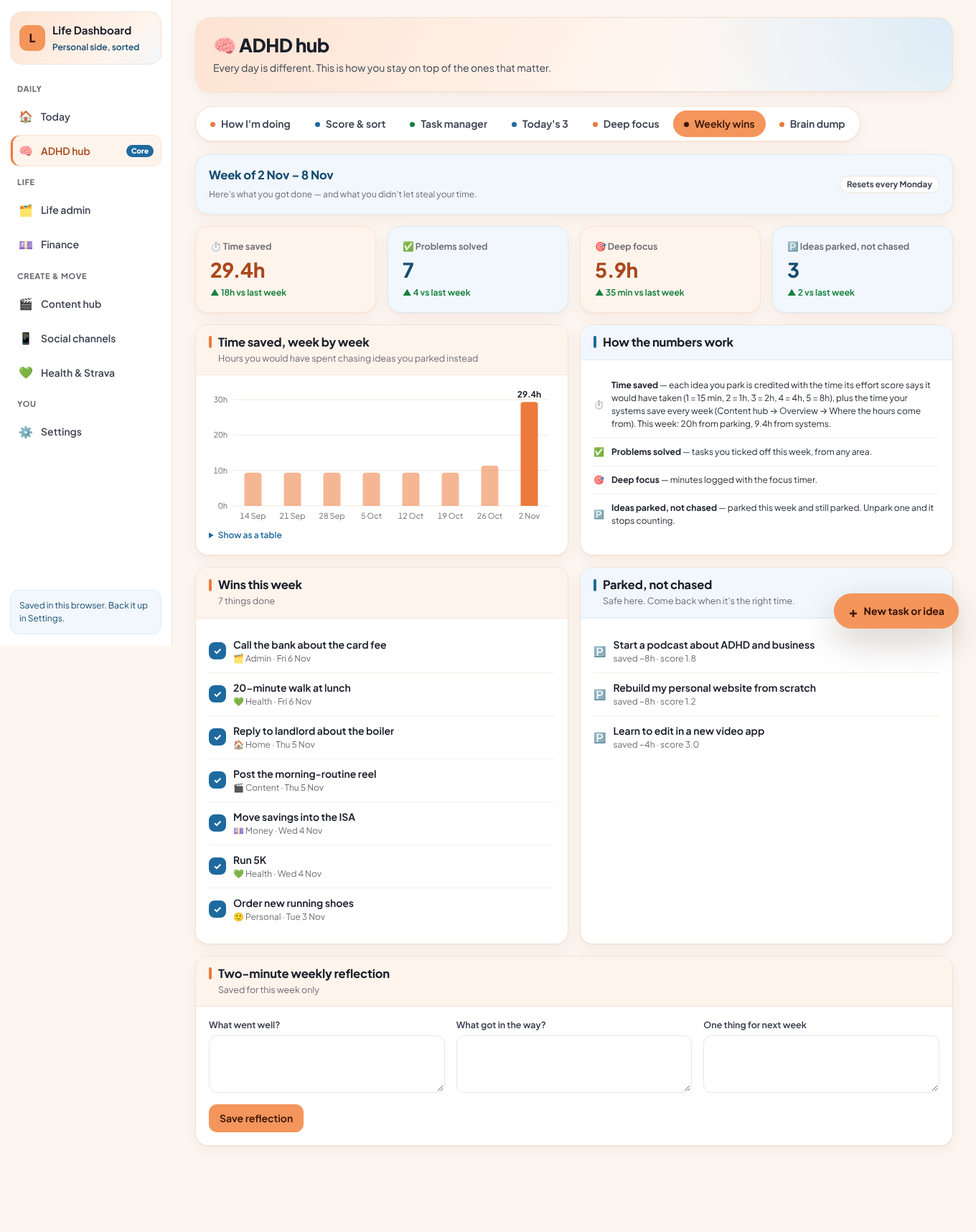
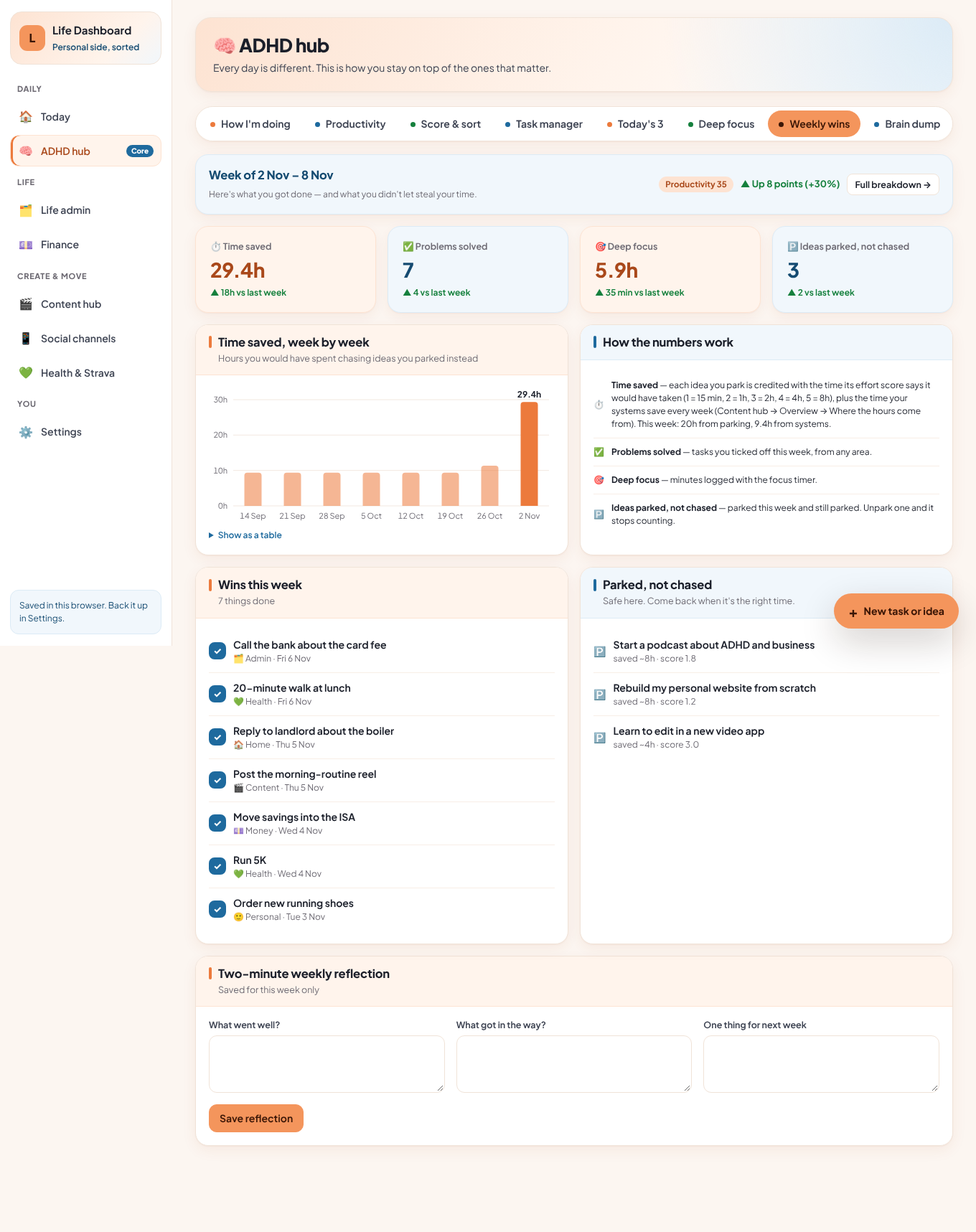
Add productivity and time saved tracking with tips to boost both
ADHD hub → Productivity (new tab), with a short version on the Today
page:
- A daily productivity score out of 100, made of Today's 3 (35), deep
  focus against a daily target (25), other tasks ticked off (20),
  daily basics (15) and checking in (5), with a breakdown so you can
  see why it moved
- Up or down: today against your usual (the last 7 days), this week
  against last week in points and %, and a week-by-week table
- Time saved per day (ideas parked that day plus a daily share of
  what your systems save) and per week, with a 14-day chart
- Boost today: tips from what's left today (overdue tasks, Today's 3,
  focus minutes, check-in, daily basics, brain dump, an overloaded
  Do it now), each with the points it's worth and a button to act
- Boost this week: tips from your trend, your weakest score part,
  your strongest and weakest weekdays, your slowest content job,
  ideas parked, and the check-in tag that lifts your mood most

Weekly wins shows this week's productivity and the change, and
Settings has a daily deep-focus target. Docs and screenshots are
updated.

Claude-Session: https://claude.ai/code/session_01Tm1LPD3ML44pVgCCgpXwdc

diff --git a/public/life/index.html b/public/life/index.html
@@ -449,6 +449,22 @@ input[type=range].prio:focus-visible { outline: 2px solid var(--sky); outline-of
 .prio-scale { display: flex; justify-content: space-between; font-size: 11px; color: var(--muted); font-weight: 600; }
 .tcard .prio-box { display: flex; align-items: center; gap: 8px; margin-top: 6px; }
 
+/* ---------- productivity ---------- */
+.parts .part { display: grid; grid-template-columns: minmax(120px, 1fr) minmax(0, 2fr) 64px; gap: 12px; align-items: center; padding: 9px 0; border-top: 1px solid var(--line-soft); }
+.parts .part:first-child { border-top: 0; }
+.parts .part b { font-size: 13px; display: block; }
+.parts .part span.small { display: block; }
+.parts .pts { text-align: right; font-weight: 750; font-variant-numeric: tabular-nums; }
+.tip { display: flex; gap: 12px; align-items: flex-start; padding: 12px; border: 1px solid var(--line); border-radius: 14px; margin-top: 10px; background: var(--surface); }
+.tip:first-of-type { margin-top: 0; }
+.tip .ico { width: 34px; height: 34px; border-radius: 10px; display: grid; place-items: center; background: var(--accent-soft); flex: 0 0 auto; font-size: 17px; }
+.calm .tip .ico { background: var(--sky-soft); }
+.tip .grow b { display: block; }
+.tip .gain { flex: 0 0 auto; }
+.tip-side { display: flex; flex-direction: column; gap: 6px; align-items: flex-end; flex: 0 0 auto; }
+.big-delta { font-size: 13px; font-weight: 700; }
+.big-delta.up { color: var(--good); } .big-delta.down { color: var(--bad); } .big-delta.flat { color: var(--muted); }
+
 /* ---------- content strategy ---------- */
 .strat-grid { display: grid; gap: 12px; grid-template-columns: repeat(2, minmax(0, 1fr)); }
 .pillar-row { display: grid; grid-template-columns: minmax(0, 1.2fr) 90px minmax(0, 2fr) auto; gap: 8px; align-items: center; margin-top: 8px; }
@@ -484,6 +500,10 @@ input[type=range].prio:focus-visible { outline: 2px solid var(--sky); outline-of
   .fab { right: 16px; bottom: 16px; }
   .tm-add, .tm-add.no-area { grid-template-columns: 1fr; }
   .tm-row { flex-wrap: wrap; }
+  .tip { flex-wrap: wrap; }
+  .tip-side { flex-direction: row; width: 100%; padding-left: 46px; align-items: center; justify-content: space-between; }
+  .parts .part { grid-template-columns: minmax(0, 1fr) 64px; }
+  .parts .part .progress { grid-column: 1 / -1; grid-row: 2; }
   .sl-row { grid-template-columns: 110px minmax(0, 1fr) 24px; gap: 10px; }
   .sys-wrap { overflow-x: auto; }
   table.sys { min-width: 560px; }
@@ -568,7 +588,7 @@ var PLATFORMS = ['TikTok', 'Instagram', 'YouTube', 'Facebook', 'X', 'LinkedIn', 
 function blank() {
   return {
     v: 1, started: false,
-    settings: { name: '', theme: 'system', formula: 'multiply', mult: { now: 15, schedule: 6 }, weights: { impact: 40, urgency: 30, energy: 20, ease: 10 }, nowAt: 70, scheduleAt: 45, habits: DEFAULT_HABITS.slice(), postGoal: 5, distanceGoal: 20 },
+    settings: { name: '', theme: 'system', formula: 'multiply', mult: { now: 15, schedule: 6 }, weights: { impact: 40, urgency: 30, energy: 20, ease: 10 }, nowAt: 70, scheduleAt: 45, habits: DEFAULT_HABITS.slice(), postGoal: 5, distanceGoal: 20, focusTarget: 90 },
     checkins: {}, tasks: [], inbox: [], focus: [], activeFocus: null, today: {}, reviews: {},
     finance: { tx: [], budgets: BUDGET_CATS.map(function (c) { return { cat: c, limit: 0 }; }), goals: [], bills: [] },
     content: { pillars: DEFAULT_PILLARS.slice(), ideas: [], views: {}, systems: [], strategy: { who: '', audience: '', offer: '', voice: '', goal: '', rules: '', platforms: { TikTok: 5, Instagram: 3 }, rhythm: ['', '', '', '', '', '', ''], mix: {}, about: {} } },
@@ -745,6 +765,112 @@ function ensureToday(force) {
 function systemsMinutes(before) {
   return sum((S.content.systems || []).filter(function (x) { return !before || !x.created || toDate(x.created) < before; }), function (x) { return Math.max(0, (+x.before || 0) - (+x.after || 0)) * (+x.times || 0); });
 }
+/* ---------- Productivity: a 0–100 score for each day ----------
+   Today's 3 done  35 · deep focus vs target 25 · other tasks ticked off 20
+   daily basics 15 · checked in 5.  Time saved per day = ideas parked that
+   day + a daily share (÷7) of what your systems save each week. */
+var PARTS = [
+  { k: 'top3', name: 'Today\'s 3', max: 35 },
+  { k: 'focus', name: 'Deep focus', max: 25 },
+  { k: 'tasks', name: 'Tasks ticked off', max: 20 },
+  { k: 'habits', name: 'Daily basics', max: 15 },
+  { k: 'checkin', name: 'Checked in', max: 5 }
+];
+function dayStats(d) {
+  var from = startOfDay(d), to = addDays(from, 1), k = dkey(from);
+  var done = S.tasks.filter(function (t) { return t.done && inRange(t.doneAt, from, to); });
+  var picks = (S.today[k] || []).map(taskById).filter(Boolean);
+  var top3Done = picks.length ? picks.filter(function (t) { return t.done && inRange(t.doneAt, from, to); }).length : Math.min(done.length, 3);
+  var focusMin = sum(S.focus.filter(function (f) { return inRange(f.start, from, to); }), function (f) { return f.minutes; });
+  var hl = S.settings.habits, habitsDone = (S.health.habits[k] || []).filter(function (h) { return hl.indexOf(h) >= 0; }).length;
+  var checked = !!S.checkins[k];
+  var target = +S.settings.focusTarget || 90;
+  var parts = {
+    top3: top3Done / 3 * 35,
+    focus: Math.min(focusMin / target, 1) * 25,
+    tasks: Math.min(Math.max(done.length - top3Done, 0) / 3, 1) * 20,
+    habits: hl.length ? habitsDone / hl.length * 15 : 0,
+    checkin: checked ? 5 : 0
+  };
+  var parkedH = sum(S.tasks.filter(function (t) { return !t.done && t.bucket === 'park' && inRange(t.parkedAt, from, to); }), function (t) { return EFFORT_HOURS[t.effort] || 0; });
+  var sysH = systemsMinutes(to) / 7 / 60;
+  return { k: k, date: from, score: Math.round(sum(PARTS, function (p) { return parts[p.k]; })), parts: parts, done: done.length, top3Done: top3Done, hasPicks: picks.length > 0,
+    focusMin: focusMin, habitsDone: habitsDone, habitsTotal: hl.length, checked: checked, parkedH: parkedH, sysH: sysH, savedH: parkedH + sysH };
+}
+function weekProd(ws) {
+  var today = startOfDay(new Date()), days = range(0, 6).map(function (i) { return addDays(ws, i); }).filter(function (d) { return d <= today; });
+  var list = days.map(dayStats);
+  return { days: list, avg: list.length ? avg(list.map(function (x) { return x.score; })) : null, saved: sum(list, function (x) { return x.savedH; }) };
+}
+function usualScore() { // average of the 7 days before today
+  return avg(range(1, 7).map(function (i) { return dayStats(addDays(new Date(), -i)).score; }));
+}
+function dayTrendText(score, usual) {
+  if (usual == null) return { txt: 'No comparison yet', cls: 'flat' };
+  var d = score - usual;
+  if (Math.abs(d) < 0.5) return { txt: '● Level with your usual (' + Math.round(usual) + ')', cls: 'flat' };
+  return { txt: (d > 0 ? '▲ ' : '▼ ') + Math.round(Math.abs(d)) + (d > 0 ? ' above' : ' below') + ' your usual (' + Math.round(usual) + ') so far today', cls: d > 0 ? 'up' : 'down' };
+}
+function trendBits(cur, prev) {
+  if (cur == null || prev == null) return { txt: 'No comparison yet', cls: 'flat', pct: null };
+  var d = cur - prev, pct = prev ? Math.round(d / prev * 100) : null;
+  if (Math.abs(d) < 0.5) return { txt: '● Level with before', cls: 'flat', pct: 0 };
+  return { txt: (d > 0 ? '▲ Up ' : '▼ Down ') + num(Math.abs(d), 0) + ' points' + (pct != null ? ' (' + (d > 0 ? '+' : '−') + Math.abs(pct) + '%)' : ''), cls: d > 0 ? 'up' : 'down', pct: pct };
+}
+function tipHTML(t) {
+  return '<div class="tip"><div class="ico">' + t.ico + '</div><div class="grow"><b>' + esc(t.title) + '</b><span class="small muted">' + esc(t.text) + '</span></div>' +
+    '<div class="tip-side">' + (t.gain ? '<span class="pill ' + (t.sky ? 'sky' : 'now') + ' gain">' + esc(t.gain) + '</span>' : '') +
+    (t.act ? '<button class="btn sm" data-act="' + t.act + '"' + Object.keys(t.data || {}).map(function (k) { return ' data-' + k + '="' + esc(t.data[k]) + '"'; }).join('') + '>' + esc(t.btn || 'Go') + '</button>' : '') + '</div></div>';
+}
+function dailyTips() {
+  var tips = [], k = dkey(), ds = dayStats(new Date()), target = +S.settings.focusTarget || 90;
+  var overdue = S.tasks.filter(function (t) { return !t.done && t.due && t.due < k; }).sort(function (a, b) { return a.effort - b.effort; });
+  if (overdue.length) tips.push({ ico: '⚠', title: 'Clear an overdue task first', text: overdue.length + ' overdue. The quickest is “' + overdue[0].title + '” — get it off your mind.', gain: '+7 pts', act: 'focus-task', data: { id: overdue[0].id }, btn: '🎯 Focus on it' });
+  var ids = ensureToday(), left = ids.map(taskById).filter(function (t) { return t && !t.done; });
+  if (left.length) tips.push({ ico: '✅', title: 'Finish Today\'s 3 (' + (3 - left.length) + ' of 3 done)', text: 'Next up: “' + left[0].title + '”. Each one is worth about 12 points.', gain: '+' + Math.round(left.length * 35 / 3) + ' pts', act: 'focus-task', data: { id: left[0].id }, btn: '🎯 Start it' });
+  if (ds.focusMin < target) { var need = target - ds.focusMin; tips.push({ ico: '🎯', title: 'Do a ' + (need >= 45 ? 45 : 25) + '-minute deep focus block', text: 'You\'re at ' + ds.focusMin + ' of ' + target + ' focus minutes today. Phone in another room, one tab open.', gain: '+' + Math.round(Math.min(need >= 45 ? 45 : 25, need) / target * 25) + ' pts', act: 'go', data: { page: 'adhd', tab: 'focus' }, btn: 'Open timer' }); }
+  if (!ds.checked) tips.push({ ico: '🙂', title: 'Check in (10 seconds)', text: 'It tunes Today\'s 3 to your energy and keeps your trend honest.', gain: '+5 pts', act: 'go', data: { page: 'adhd', tab: 'checkin' }, btn: 'Check in' });
+  if (ds.habitsTotal && ds.habitsDone < ds.habitsTotal) tips.push({ ico: '💚', title: 'Tick off your daily basics', text: (ds.habitsTotal - ds.habitsDone) + ' left today. Start with a 20-minute walk — it lifts focus for the afternoon.', gain: '+' + Math.round((ds.habitsTotal - ds.habitsDone) / ds.habitsTotal * 15) + ' pts', act: 'go', data: { page: 'health' }, btn: 'Open basics' });
+  if (S.inbox.length) tips.push({ ico: '💭', title: 'Empty the brain dump', text: S.inbox.length + ' thought' + (S.inbox.length === 1 ? '' : 's') + ' waiting. Score them or park them — every idea parked saves you chasing it.', gain: 'saves time', sky: true, act: 'go', data: { page: 'adhd', tab: 'dump' }, btn: 'Sort them' });
+  var nowCount = S.tasks.filter(function (t) { return !t.done && t.bucket === 'now'; }).length;
+  if (nowCount > 7) tips.push({ ico: '🅿', title: 'Lighten “Do it now”', text: nowCount + ' tasks are in Do it now. Move 3 to Schedule or Park so today feels doable.', gain: 'less overwhelm', sky: true, act: 'go', data: { page: 'adhd', tab: 'score' }, btn: 'Sort tasks' });
+  var e = todayEnergy();
+  if (e != null && e <= 2) tips.unshift({ ico: '🔋', title: 'Low-energy day — shrink the target', text: 'Do one quick win and one 15-minute focus block. That still counts as a good day.', gain: 'protects tomorrow', sky: true });
+  if (!tips.length) tips.push({ ico: '🏆', title: 'You\'ve hit everything today', text: 'Rest is productive too. Anything else is a bonus — or plan tomorrow\'s first task now.', gain: '100% day', sky: true });
+  return tips.slice(0, 5);
+}
+function weeklyTips() {
+  var tips = [], ws = weekStart(), cur = weekProd(ws), last = weekProd(addDays(ws, -7)), tr = trendBits(cur.avg, last.avg);
+  if (tr.cls === 'down') tips.push({ ico: '📉', title: 'Productivity is ' + tr.txt.replace('▼ ', '').toLowerCase() + ' on last week', text: 'Make this week lighter: just Today\'s 3 each day, and park any new idea that scores under ' + num(thresholds().schedule) + '.', gain: 'reset', act: 'go', data: { page: 'adhd', tab: 'score' }, btn: 'Review tasks' });
+  else if (tr.cls === 'up') tips.push({ ico: '📈', title: 'Productivity is ' + tr.txt.replace('▲ ', '').toLowerCase() + ' — keep it going', text: 'Whatever you changed is working. Repeat the same morning routine and protect your focus blocks.', gain: 'keep it up', sky: true });
+  // weakest part this week
+  if (cur.days.length) {
+    var ratios = PARTS.map(function (p) { return { p: p, r: avg(cur.days.map(function (x) { return x.parts[p.k] / p.max; })) }; }).sort(function (a, b) { return a.r - b.r; });
+    var w = ratios[0], pct = Math.round(w.r * 100), lost = Math.round((1 - w.r) * w.p.max);
+    var map = {
+      top3: ['Finish Today\'s 3 before anything else', 'Today\'s 3 is at ' + pct + '% this week. Do #1 before opening email or socials.', 'adhd', 'today', 'Open Today\'s 3'],
+      focus: ['Book three focus blocks this week', 'Deep focus is at ' + pct + '% of your ' + S.settings.focusTarget + '-minute daily target. Put 45 minutes in the diary on 3 mornings.', 'adhd', 'focus', 'Open timer'],
+      tasks: ['Clear two quick wins a day', 'Other tasks are at ' + pct + '%. Pick tasks with effort 1 — they take 15 minutes and add up fast.', 'adhd', 'tasks', 'Open task manager'],
+      habits: ['Stack your daily basics', 'Basics are at ' + pct + '%. Tie them to something you already do: water and meds with breakfast, walk after lunch.', 'health', '', 'Open basics'],
+      checkin: ['Check in every morning', 'You\'ve checked in on ' + cur.days.filter(function (x) { return x.checked; }).length + ' of ' + cur.days.length + ' days. It takes 10 seconds and sharpens Today\'s 3.', 'adhd', 'checkin', 'Check in']
+    }[w.p.k];
+    tips.push({ ico: '🧩', title: map[0], text: map[1], gain: '+' + lost + ' pts a day', act: 'go', data: { page: map[2], tab: map[3] }, btn: map[4] });
+  }
+  // best weekday from the last 4 weeks
+  var byDow = range(0, 6).map(function (i) { return { d: i, s: avg(range(0, 3).map(function (wk) { var day = addDays(ws, i - 7 * (wk + 1)); return dayStats(day).score; })) }; }).sort(function (a, b) { return b.s - a.s; });
+  if (byDow[0].s > 0) tips.push({ ico: '🗓', title: 'Use your strongest day: ' + WEEKDAYS[byDow[0].d], text: 'Over the last 4 weeks ' + WEEKDAYS[byDow[0].d] + ' averages ' + Math.round(byDow[0].s) + ' and ' + WEEKDAYS[byDow[6].d] + ' ' + Math.round(byDow[6].s) + '. Put your biggest task on ' + WEEKDAYS[byDow[0].d] + ' and keep ' + WEEKDAYS[byDow[6].d] + ' light.', gain: 'work with your rhythm', sky: true });
+  // biggest time-saving opportunity
+  var sys = (S.content.systems || []).slice().sort(function (a, b) { return b.after * b.times - a.after * a.times; });
+  if (sys.length && sys[0].after * sys[0].times >= 30) tips.push({ ico: '⏱', title: '“' + sys[0].name + '” still takes ' + hrs(sys[0].after * sys[0].times / 60) + ' a week', text: 'Template it, batch it or automate one more step. Halving it wins back about ' + hrs(sys[0].after * sys[0].times / 2 / 60) + ' every week.', gain: '+' + hrs(sys[0].after * sys[0].times / 2 / 60) + '/week', sky: true, act: 'go', data: { page: 'content', tab: 'overview' }, btn: 'Open systems' });
+  else if (!sys.length) tips.push({ ico: '⏱', title: 'Start counting the time your systems save', text: 'List the jobs you repeat every week (captions, clipping, replies) with before and after minutes.', gain: 'track time saved', sky: true, act: 'go', data: { page: 'content', tab: 'overview' }, btn: 'Add systems' });
+  var st = weekStats(ws);
+  if (st.parked < 2) tips.push({ ico: '🅿', title: 'Score new ideas before you chase them', text: 'You\'ve parked ' + st.parked + ' idea' + (st.parked === 1 ? '' : 's') + ' this week. Each one parked saves 15 minutes to 8 hours you\'d have spent chasing it.', gain: 'up to 8h each', sky: true, act: 'go', data: { page: 'adhd', tab: 'dump' }, btn: 'Brain dump' });
+  // best check-in tag
+  var entries = Object.keys(S.checkins).map(function (k) { return S.checkins[k]; }).filter(function (x) { return x.score; }), overall = avg(entries.map(function (x) { return x.score; }));
+  var best = TAGS.map(function (t) { var wt = entries.filter(function (x) { return (x.tags || []).indexOf(t) >= 0; }); return { t: t, n: wt.length, d: wt.length >= 3 ? avg(wt.map(function (x) { return x.score; })) - overall : -9 }; }).sort(function (a, b) { return b.d - a.d; })[0];
+  if (best && best.d >= 0.5) tips.push({ ico: '✨', title: 'Do more of what lifts you: “' + best.t + '”', text: 'Days tagged “' + best.t + '” score ' + num(best.d, 1) + ' higher on your check-in. Plan for it on 3 days this week.', gain: '+' + num(best.d, 1) + ' mood', sky: true });
+  return tips.slice(0, 5);
+}
 function weekStats(ws) {
   var we = addDays(ws, 7);
   var solved = S.tasks.filter(function (t) { return t.done && inRange(t.doneAt, ws, we); });
@@ -920,6 +1046,7 @@ var NAV = [
 ];
 var ADHD_TABS = [
   { id: 'checkin', name: 'How I\'m doing' },
+  { id: 'progress', name: 'Productivity' },
   { id: 'score', name: 'Score & sort' },
   { id: 'tasks', name: 'Task manager' },
   { id: 'today', name: 'Today\'s 3' },
@@ -1017,6 +1144,7 @@ function viewHome() {
            : '<div class="scale compact">' + range(1, 10).map(function (n) { return '<button data-act="quick-score" data-v="' + n + '">' + n + '</button>'; }).join('') + '</div><p class="small muted mt">Today\'s 3 re-picks itself to match. Add energy, sleep and notes in the <a href="#/adhd/checkin">full check-in</a>.</p>') +
       '</div>' +
     '</div>' +
+    homeProductivity() +
     '<div class="section-label"><span>🎯</span>Top priorities</div>' + taskManager('home', { areas: null, def: 'personal', title: '🎯 Top priorities', blurb: 'Your most important open tasks, from every area.', limit: 6 }) +
     '<div class="section-label"><span>📊</span>This week so far</div>' + weekTiles(ws) +
     '<div class="grid g3 mt">' +
@@ -1031,6 +1159,14 @@ function viewHome() {
         '<div class="mt-s"><div class="progress"><span style="width:' + clamp(sum(acts, function (a) { return a.distance; }) / (S.settings.distanceGoal || 1) * 100, 0, 100) + '%"></span></div><div class="small muted mt-s">' + acts.length + ' activities · goal ' + S.settings.distanceGoal + ' km</div></div></div>' +
     '</div>' +
     (idea ? '<div class="card mt tint"><div class="row between"><div><span class="pill plain">💡 Content idea waiting · ' + esc(idea.platform) + '</span><h3 class="mt-s">' + esc(idea.title) + '</h3><p class="small muted">' + esc(idea.hook || '') + '</p></div><button class="btn sm" data-act="go" data-page="content">Open content ideas →</button></div></div>' : '');
+}
+function homeProductivity() {
+  var t = dayStats(new Date()), tr = dayTrendText(t.score, usualScore()), tips = dailyTips().slice(0, 2);
+  var ws = weekStart(), c = weekProd(ws), l = weekProd(addDays(ws, -7)), tw = trendBits(c.avg, l.avg);
+  return '<div class="section-label"><span>📈</span>Productivity & time saved</div>' +
+    '<div class="grid g3"><div class="stack"><div class="card stat t-peach"><span class="label">Productivity today</span><span class="value">' + t.score + '<span class="small muted"> / 100</span></span><span class="big-delta ' + tr.cls + '">' + tr.txt + '</span><span class="sub">This week ' + (c.avg == null ? '–' : Math.round(c.avg)) + ' · ' + tw.txt.replace('▲ ', '').replace('▼ ', '') + ' vs last week</span></div>' +
+    '<div class="card stat t-sky"><span class="label">Time saved</span><span class="value">' + hrs(t.savedH) + '<span class="small muted"> today</span></span><span class="sub">' + hrs(c.saved) + ' this week so far</span></div></div>' +
+    '<div class="card span2"><div class="card-head"><div><h2>🚀 Boost today</h2><p>The quickest ways to lift today\'s score</p></div><button class="btn sm ghost" data-act="go" data-page="adhd" data-tab="progress">All tips →</button></div>' + tips.map(tipHTML).join('') + '</div></div>';
 }
 function todayLine() {
   var e = todayEnergy();
@@ -1068,7 +1204,7 @@ function viewADHD() {
   var tab = ADHD_TABS.some(function (t) { return t.id === route.tab; }) ? route.tab : 'checkin';
   return '<div class="page-head"><div><h1>🧠 ADHD hub</h1><p>Every day is different. This is how you stay on top of the ones that matter.</p></div></div>' +
     tabsBar('adhd', ADHD_TABS, tab) +
-    ({ checkin: tabCheckin, score: tabScore, tasks: tabTasks, today: tabToday, focus: tabFocus, week: tabWeek, dump: tabDump })[tab]();
+    ({ checkin: tabCheckin, progress: tabProgress, score: tabScore, tasks: tabTasks, today: tabToday, focus: tabFocus, week: tabWeek, dump: tabDump })[tab]();
 }
 
 var draftCheckin = null;
@@ -1317,12 +1453,53 @@ setInterval(function () {
   document.title = S.activeFocus ? clockText(a) + ' · Focus' : 'Life Dashboard';
 }, 1000);
 
+/* ---------- Productivity & time saved ---------- */
+function tabProgress() {
+  var today = dayStats(new Date()), usual = usualScore(), trDay = dayTrendText(today.score, usual);
+  var ws = weekStart(), cur = weekProd(ws), last = weekProd(addDays(ws, -7)), trWeek = trendBits(cur.avg, last.avg);
+  var savedTr = deltaText(cur.saved, last.saved, '', hrs);
+  var days = range(0, 13).map(function (i) { return dayStats(addDays(new Date(), i - 13)); });
+  lineChart('ch-prod', days.map(function (x) { return { label: DOW[x.date.getDay()].slice(0, 2) + ' ' + x.date.getDate(), value: x.score, tip: fmtDay(x.date) + ' · ' + x.done + ' done · ' + x.focusMin + ' min focus' }; }), { min: 0, max: 100, ticks: [0, 50, 100], label: 'Productivity per day' });
+  columnChart('ch-saved-day', days.map(function (x) { return { label: DOW[x.date.getDay()].slice(0, 2) + ' ' + x.date.getDate(), value: +x.savedH.toFixed(2), tip: fmtDay(x.date) + ' · ' + hrs(x.parkedH) + ' parked + ' + hrs(x.sysH) + ' systems' }; }), { fmt: hrs, label: 'Time saved per day', base: css('--bar-mute'), cur: css('--accent') });
+  var weeks = range(0, 7).map(function (i) { var w = addDays(ws, (i - 7) * 7); return { ws: w, p: weekProd(w), st: weekStats(w) }; });
+  return '<div class="grid g4">' +
+      '<div class="card stat t-peach"><span class="label">Productivity today</span><span class="value">' + today.score + '<span class="small muted"> / 100</span></span><span class="big-delta ' + trDay.cls + '">' + trDay.txt + '</span></div>' +
+      '<div class="card stat t-sky"><span class="label">Time saved today</span><span class="value">' + hrs(today.savedH) + '</span><span class="sub">' + hrs(today.parkedH) + ' from parking · ' + hrs(today.sysH) + ' from systems</span></div>' +
+      '<div class="card stat t-peach"><span class="label">Productivity this week</span><span class="value">' + (cur.avg == null ? '–' : Math.round(cur.avg)) + '<span class="small muted"> avg</span></span><span class="big-delta ' + trWeek.cls + '">' + trWeek.txt + ' vs last week</span></div>' +
+      '<div class="card stat t-sky"><span class="label">Time saved this week</span><span class="value">' + hrs(cur.saved) + '</span><span class="delta ' + savedTr[1] + '">' + (savedTr[0] || 'so far') + '</span></div>' +
+    '</div>' +
+    '<div class="grid g2 mt">' +
+      '<div class="card"><div class="card-head"><div><h2>🚀 Boost today</h2><p>Personal to what you\'ve done so far today</p></div></div>' + dailyTips().map(tipHTML).join('') + '</div>' +
+      '<div class="card calm"><div class="card-head"><div><h2>📅 Boost this week</h2><p>From your trends, patterns and time-saving systems</p></div></div>' + weeklyTips().map(tipHTML).join('') + '</div>' +
+    '</div>' +
+    '<div class="grid g2 mt">' +
+      '<div class="card"><div class="card-head"><div><h2>How today\'s score is made</h2><p>Five parts that add up to 100 — so you always know why it moved</p></div><span class="pill now">' + today.score + ' / 100</span></div><div class="parts">' +
+        PARTS.map(function (pt) {
+          var v = today.parts[pt.k], detail = { top3: today.top3Done + ' of 3 done' + (today.hasPicks ? '' : ' (any 3 tasks)'), focus: today.focusMin + ' of ' + S.settings.focusTarget + ' min', tasks: Math.max(today.done - today.top3Done, 0) + ' extra done (3 = full marks)', habits: today.habitsDone + ' of ' + today.habitsTotal + ' ticked', checkin: today.checked ? 'Done' : 'Not yet' }[pt.k];
+          return '<div class="part"><div><b>' + pt.name + '</b><span class="small muted">' + detail + '</span></div><div class="progress' + (pt.k === 'top3' || pt.k === 'tasks' ? ' warm' : '') + '"><span style="width:' + (v / pt.max * 100) + '%"></span></div><span class="pts">' + Math.round(v) + ' / ' + pt.max + '</span></div>';
+        }).join('') + '</div></div>' +
+      '<div class="card calm"><div class="card-head"><div><h2>Productivity per day</h2><p>Last 14 days, out of 100</p></div></div>' + chartSlot('ch-prod', 200) +
+        tableView(['Day', 'Score', 'Done', 'Focus'], days.map(function (x) { return [fmtDay(x.date), x.score, x.done, x.focusMin + ' min']; })) + '</div>' +
+    '</div>' +
+    '<div class="grid g2 mt">' +
+      '<div class="card"><div class="card-head"><div><h2>Time saved per day</h2><p>Last 14 days · ideas parked that day + your systems\' daily share</p></div></div>' + chartSlot('ch-saved-day', 200) +
+        tableView(['Day', 'Saved', 'Parking', 'Systems'], days.map(function (x) { return [fmtDay(x.date), hrs(x.savedH), hrs(x.parkedH), hrs(x.sysH)]; })) + '</div>' +
+      '<div class="card calm"><div class="card-head"><div><h2>Week by week</h2><p>Is it going up or down?</p></div></div>' +
+        '<table class="data"><thead><tr><th>Week of</th><th class="num">Productivity</th><th class="num">Change</th><th class="num">Time saved</th><th class="num">Solved</th></tr></thead><tbody>' +
+        weeks.slice().reverse().map(function (w, i, arr) {
+          var prev = arr[i + 1], t = prev ? trendBits(w.p.avg, prev.p.avg) : { txt: '–', cls: 'flat' };
+          return '<tr><td>' + fmtShort(w.ws) + (i === 0 ? ' (this week)' : '') + '</td><td class="num">' + (w.p.avg == null ? '–' : Math.round(w.p.avg)) + '</td><td class="num"><span class="big-delta ' + t.cls + '">' + (t.pct != null && prev ? (t.cls === 'up' ? '▲ ' : t.cls === 'down' ? '▼ ' : '● ') + Math.abs(t.pct) + '%' : '–') + '</span></td><td class="num">' + hrs(w.st.timeSaved) + '</td><td class="num">' + w.st.solved + '</td></tr>';
+        }).join('') + '</tbody></table>' +
+        '<p class="small muted mt">Productivity is the average daily score for that week (this week counts the days so far).</p></div>' +
+    '</div>';
+}
+
 /* ---------- Weekly wins ---------- */
 function tabWeek() {
   var ws = weekStart(), st = weekStats(ws), wk = dkey(ws), rv = S.reviews[wk] || {};
   var hist = range(0, 7).map(function (i) { var w = addDays(ws, (i - 7) * 7); return { ws: w, st: weekStats(w) }; });
   columnChart('ch-saved', hist.map(function (h) { return { label: fmtShort(h.ws), value: +h.st.timeSaved.toFixed(2), tip: 'Week of ' + fmtShort(h.ws) }; }), { fmt: hrs, label: 'Time saved per week' });
-  return '<div class="card tint"><div class="row between"><div><h2>Week of ' + fmtShort(ws) + ' – ' + fmtShort(addDays(ws, 6)) + '</h2><p class="small muted mt-s">Here\'s what you got done — and what you didn\'t let steal your time.</p></div><span class="pill plain">Resets every Monday</span></div></div>' +
+  return '<div class="card tint"><div class="row between"><div><h2>Week of ' + fmtShort(ws) + ' – ' + fmtShort(addDays(ws, 6)) + '</h2><p class="small muted mt-s">Here\'s what you got done — and what you didn\'t let steal your time.</p></div><div class="row">' + (function () { var c = weekProd(ws), l = weekProd(addDays(ws, -7)), t = trendBits(c.avg, l.avg); return '<span class="pill now">Productivity ' + (c.avg == null ? '–' : Math.round(c.avg)) + '</span><span class="big-delta ' + t.cls + '">' + t.txt + '</span>'; })() + '<button class="btn sm" data-act="go" data-page="adhd" data-tab="progress">Full breakdown →</button></div></div></div>' +
     '<div class="mt">' + weekTiles(ws) + '</div>' +
     '<div class="grid g2 mt">' +
       '<div class="card"><div class="card-head"><div><h2>Time saved, week by week</h2><p>Hours you would have spent chasing ideas you parked instead</p></div></div>' + chartSlot('ch-saved', 190) +
@@ -1642,7 +1819,8 @@ function viewSettings() {
     '<div class="grid g2"><div class="card"><div class="card-head"><h2>You</h2></div><div class="form-row">' +
       '<label class="field">Your first name<input type="text" id="set-name" value="' + esc(s.name) + '"></label>' +
       '<label class="field">Theme<select id="set-theme">' + [['system', 'Match my device'], ['light', 'Light'], ['dark', 'Dark']].map(function (o) { return '<option value="' + o[0] + '"' + (s.theme === o[0] ? ' selected' : '') + '>' + o[1] + '</option>'; }).join('') + '</select></label>' +
-      '<label class="field">Weekly distance goal (km)<input type="number" id="set-km" min="0" value="' + s.distanceGoal + '"></label></div>' +
+      '<label class="field">Weekly distance goal (km)<input type="number" id="set-km" min="0" value="' + s.distanceGoal + '"></label>' +
+      '<label class="field">Daily deep-focus target (min)<input type="number" id="set-focus" min="10" step="5" value="' + s.focusTarget + '"></label></div>' +
       '<label class="field mt">Daily basics (one per line)<textarea id="set-habits">' + esc(s.habits.join('\n')) + '</textarea></label>' +
       '<p class="small muted mt">Content pillars and your posting plan now live in Content hub → Strategy.</p>' +
       '<div class="row mt"><button class="btn primary" data-act="set-save">Save</button></div></div>' +
@@ -1837,7 +2015,7 @@ function act(a, d, el) {
       S.health.activities.push({ id: uid(), date: val('a-date') || dkey(), type: val('a-type'), name: val('a-name'), distance: dist, minutes: mins, source: 'manual' }); save(); render(); toast('Activity logged. 💪'); break;
     case 'act-del': S.health.activities = S.health.activities.filter(function (x) { return x.id !== d.id; }); save(); render(); break;
     case 'set-save':
-      S.settings.name = val('set-name'); S.settings.theme = val('set-theme'); S.settings.distanceGoal = parseFloat(val('set-km')) || 0;
+      S.settings.name = val('set-name'); S.settings.theme = val('set-theme'); S.settings.distanceGoal = parseFloat(val('set-km')) || 0; S.settings.focusTarget = parseInt(val('set-focus'), 10) || 90;
       S.settings.habits = val('set-habits').split('\n').map(function (x) { return x.trim(); }).filter(Boolean);
       save(); render(); toast('Saved.'); break;
     case 'w-save':
@@ -1946,7 +2124,7 @@ function demoData() {
     var pace = type === 'Run' ? 5.6 : type === 'Walk' ? 12 : 2.6;
     s.health.activities.push({ id: uid(), extId: 'demo' + a, date: dkey(addDays(now, -a)), name: (type === 'Run' ? ['Morning run', 'Easy 5K', 'Lunch run', 'Long run'] : type === 'Walk' ? ['Lunch walk', 'Evening walk'] : ['Weekend ride'])[Math.floor(rnd() * (type === 'Run' ? 4 : type === 'Walk' ? 2 : 1))], type: type, distance: +dist.toFixed(1), minutes: Math.round(dist * pace), source: 'strava' });
   }
-  for (var h = 1; h <= 6; h++) { var hk = dkey(addDays(now, -h)); s.health.habits[hk] = s.settings.habits.filter(function () { return rnd() < .6; }); }
+  for (var h = 1; h <= 20; h++) { var hk = dkey(addDays(now, -h)), hp = h > 7 ? .45 : .62; s.health.habits[hk] = s.settings.habits.filter(function () { return rnd() < hp; }); }
   s.settings.postGoal = 8;
   var lw0 = addDays(ws, -7);
   [182, 205, 196, 240, 268, 255, 301, 342, 330, 388, 410, 468].forEach(function (v, i) { s.content.views[dkey(addDays(lw0, (i - 11) * 7))] = v * 1000; });

diff --git a/docs/LIFE-DASHBOARD.md b/docs/LIFE-DASHBOARD.md
@@ -31,11 +31,12 @@ Every section except Finance has its own ranked task manager:
 
 ## 🧠 ADHD hub (the core)
 
-It has seven tabs, kept separate:
+It has eight tabs, kept separate:
 
 | Tab | What it does |
 |---|---|
 | **How I'm doing** | A daily score from 1 (really rough) to 10 (flying), plus optional energy (1–5), sleep, tags and a note. It shows a daily line chart (7/14/30 days), weekly averages for the last 8 weeks, your check-in streak, and **Patterns** (how your score changes on days tagged "Slept well", "Exercised", "Overwhelmed" and so on). |
+| **Productivity** | Your daily score out of 100 and how it's made up, time saved today and this week, up or down compared with your usual and last week, and tips to boost today and this week. |
 | **Score & sort** | Score a task or idea *before* you add it. The formula is shown at the top. Four sliders (Impact, Urgency, Energy fit, Effort) show the sum (e.g. `4 × 3 × 4 ÷ 4`), a live score and a verdict: **Do it now**, **Schedule it** or **Park it**. Below it are the three buckets, where you can tick tasks off, move them or rescore them. |
 | **Task manager** | Every task from every area, ranked 5 → 1 with the importance bar. Filter by area. |
 | **Today's 3** | At least three tasks every day, with one always for your health. They're matched to today's check-in: on a low-energy day you get quick, gentle wins. If you haven't scored enough tasks, it suggests a simple health or admin task. |
@@ -58,6 +59,39 @@ Below 6      → Park it
 For example, 4 × 3 × 4 ÷ 4 = 12.0, which goes to **Schedule it**. Scores run from 0.2 (1 × 1 × 1 ÷ 5) to 125 (5 × 5 × 5 ÷ 1).
 
 In **Settings → Your scoring formula** you can change the cut-offs. You can also switch back to the older weighted score out of 100, which has its own weights, cut-offs and two overrides.
+
+### 📈 Productivity and time saved
+
+The **ADHD hub → Productivity** tab, with a short version on the Today page, tracks how productive each day and week is and how much time you saved.
+
+**The daily productivity score (out of 100)** is made of five parts. The tab shows each part, so you can always see why the score moved.
+
+| Part | Points | Full marks when |
+|---|---|---|
+| Today's 3 | 35 | all 3 are done that day (if a day had no Today's 3, any 3 tasks count) |
+| Deep focus | 25 | you reach your daily focus target (90 min by default, set in Settings) |
+| Tasks ticked off | 20 | 3 or more tasks done on top of Today's 3 |
+| Daily basics | 15 | every basic is ticked |
+| Checked in | 5 | you've done that day's check-in |
+
+**Up or down**
+- **Today:** compared with your usual, which is the average of the previous 7 days. It's labelled "so far today", because the day isn't over yet.
+- **This week:** the average daily score so far, compared with last week, in points and %.
+- **Week by week:** a table of the last 8 weeks with the change each week.
+
+**Time saved per day** is the ideas you parked that day plus a daily share (÷ 7) of what your systems save each week. Time saved per week is the same as in Weekly wins.
+
+**Tips**
+- **Boost today** looks at what's left today, such as overdue tasks, unfinished Today's 3, focus minutes, your check-in, daily basics, the brain dump and an overloaded Do it now list. Each tip shows the points it's worth and has a button to act on it.
+- **Boost this week** looks at:
+  - whether productivity is up or down;
+  - the part of your score dragging you down most;
+  - your strongest and weakest days over the last 4 weeks;
+  - the content job that still takes the most time;
+  - how many ideas you've parked;
+  - the check-in tag that lifts your mood most.
+
+![Productivity](screenshots/52-life-adhd-productivity.png)
 
 ### How the weekly numbers are worked out
 

diff --git a/README.md b/README.md
@@ -21,7 +21,7 @@ The design uses a deep nautical sky blue on a white background with black text. 
 
 ### 🧠 Life Dashboard: the personal side
 
-The personal side lives separately at **`/life`**. It has an ADHD hub with daily check-ins, the impact/urgency/energy/effort score (Do it now · Schedule it · Park it), Today's 3, a deep-focus timer and weekly wins. Alongside it are life admin, finance, a content hub (strategy and ideas), social channels, and health with Strava import. Every section except Finance has a task manager ranked with a 1–5 importance bar. It's a single page with no build step, and your data stays in your own browser. See [docs/LIFE-DASHBOARD.md](docs/LIFE-DASHBOARD.md).
+The personal side lives separately at **`/life`**. It has an ADHD hub with daily check-ins, the impact/urgency/energy/effort score (Do it now · Schedule it · Park it), Today's 3, a deep-focus timer and weekly wins. Alongside it are life admin, finance, a content hub (strategy and ideas), social channels, and health with Strava import. Every section except Finance has a task manager ranked with a 1–5 importance bar. A Productivity tab scores each day out of 100, tracks time saved each day and week, shows whether you're up or down, and gives tips to boost both. It's a single page with no build step, and your data stays in your own browser. See [docs/LIFE-DASHBOARD.md](docs/LIFE-DASHBOARD.md).
 
 ![Life Dashboard](docs/screenshots/40-life-today.png)
 
